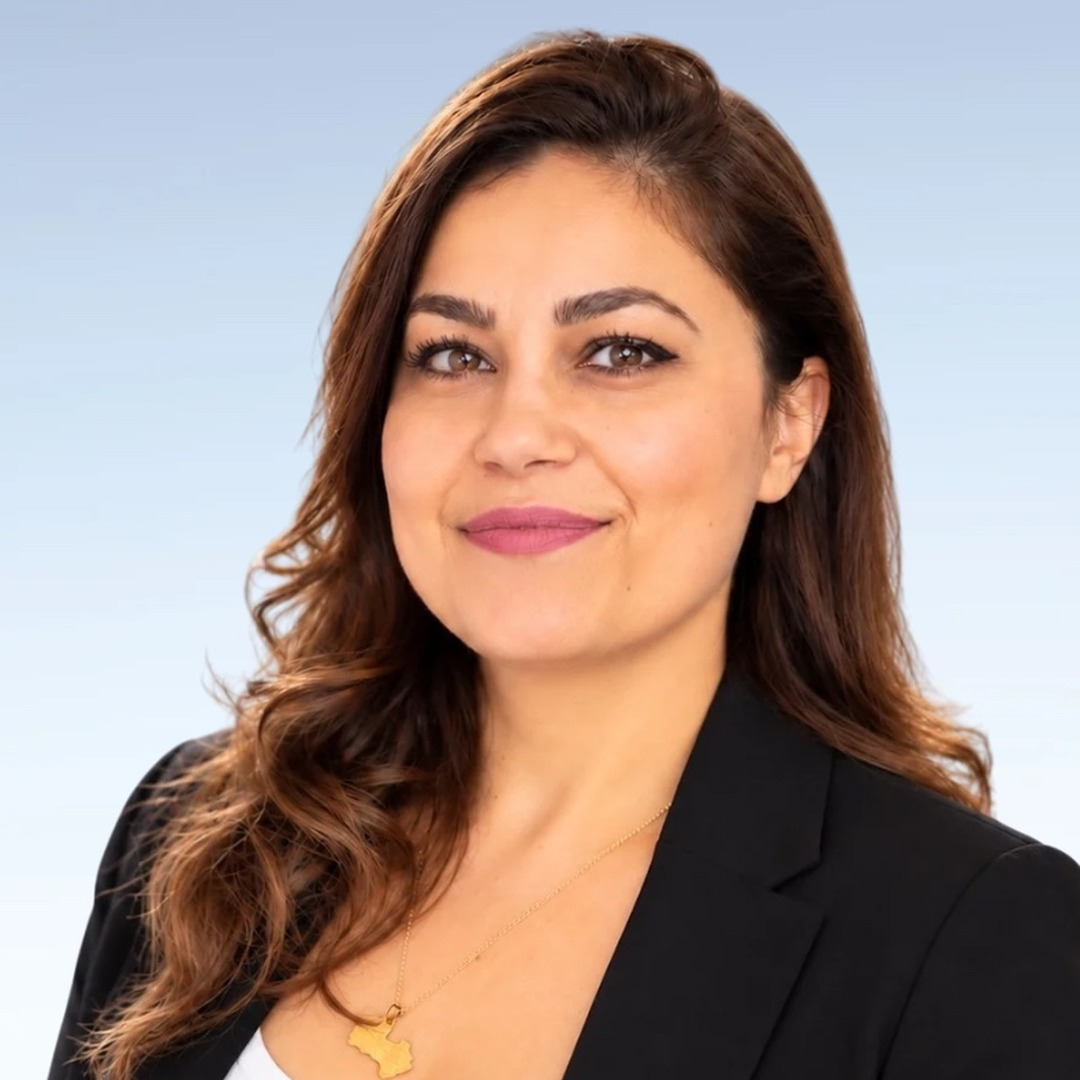
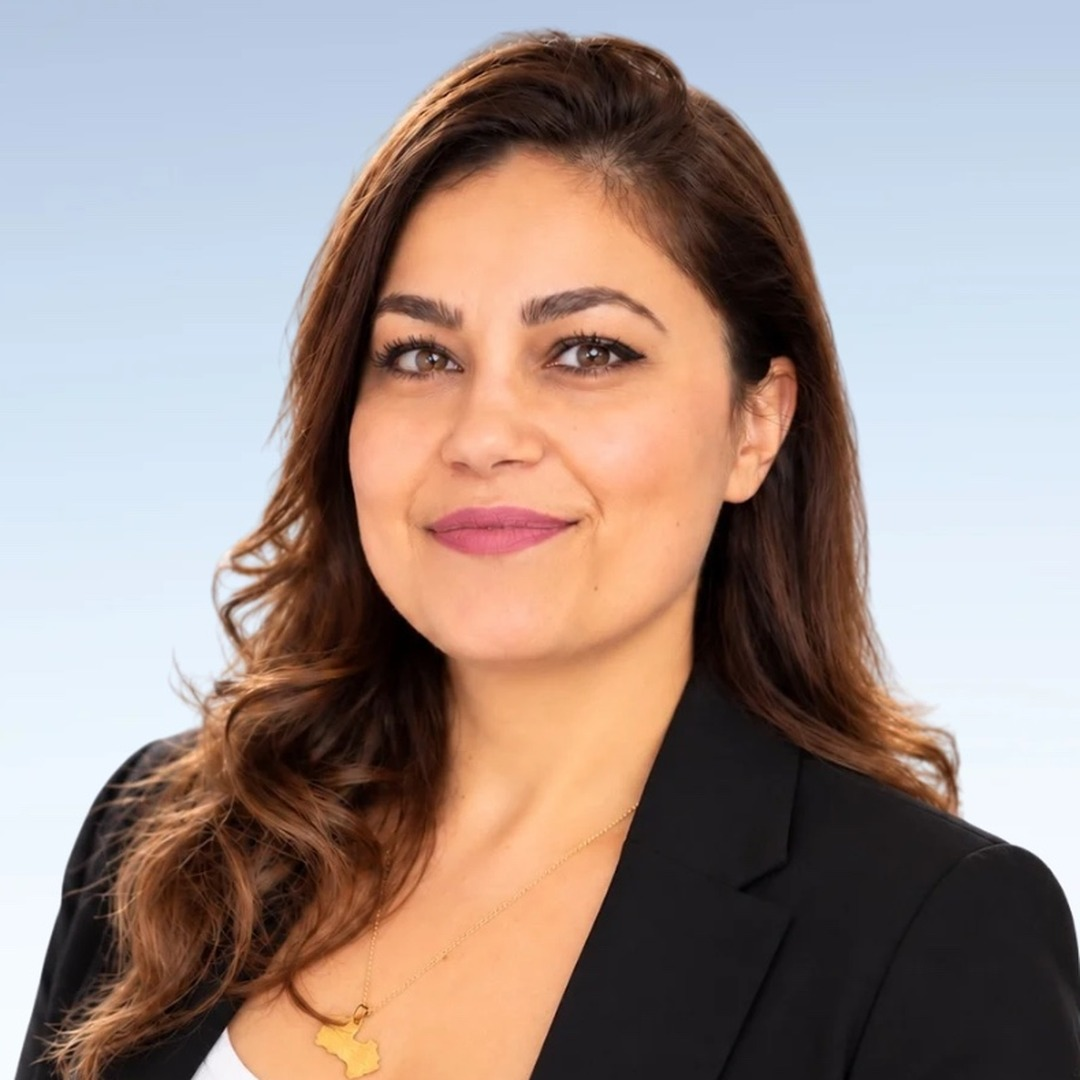
Shift Armine Juraghatspanyan's photo slightly left
Claude-Session: https://claude.ai/code/session_01UY2yYSyHezMTLTrkPybDFD

diff --git a/team.html b/team.html
@@ -325,7 +325,7 @@
           <p class="role role-voting">Board Chair <svg class="vote-icon" viewBox="0 0 24 24" fill="none" stroke="currentColor" stroke-width="1.6" stroke-linecap="round" stroke-linejoin="round" aria-hidden="true"><path d="M12 3 5 6v5.5c0 4.4 3 7.8 7 9.5 4-1.7 7-5.1 7-9.5V6Z"/><path d="m9 12 2 2 4-4.5"/></svg><span class="sr-only"> (voting member of the Board of Directors)</span></p>
         </div>
         <div class="team-card">
-          <div class="team-photo"><img src="assets/armine-juraghatspanyan.jpg" alt="Armine Juraghatspanyan, Board Vice Chair"></div>
+          <div class="team-photo"><img src="assets/armine-juraghatspanyan.jpg?v=2" alt="Armine Juraghatspanyan, Board Vice Chair"></div>
           <h3>Armine Juraghatspanyan</h3>
           <p class="role role-voting">Board Vice Chair <svg class="vote-icon" viewBox="0 0 24 24" fill="none" stroke="currentColor" stroke-width="1.6" stroke-linecap="round" stroke-linejoin="round" aria-hidden="true"><path d="M12 3 5 6v5.5c0 4.4 3 7.8 7 9.5 4-1.7 7-5.1 7-9.5V6Z"/><path d="m9 12 2 2 4-4.5"/></svg><span class="sr-only"> (voting member of the Board of Directors)</span></p>
           <a class="more" href="adlea-board-bios.html#armine-juraghatspanyan">Learn more &#8594;</a>
